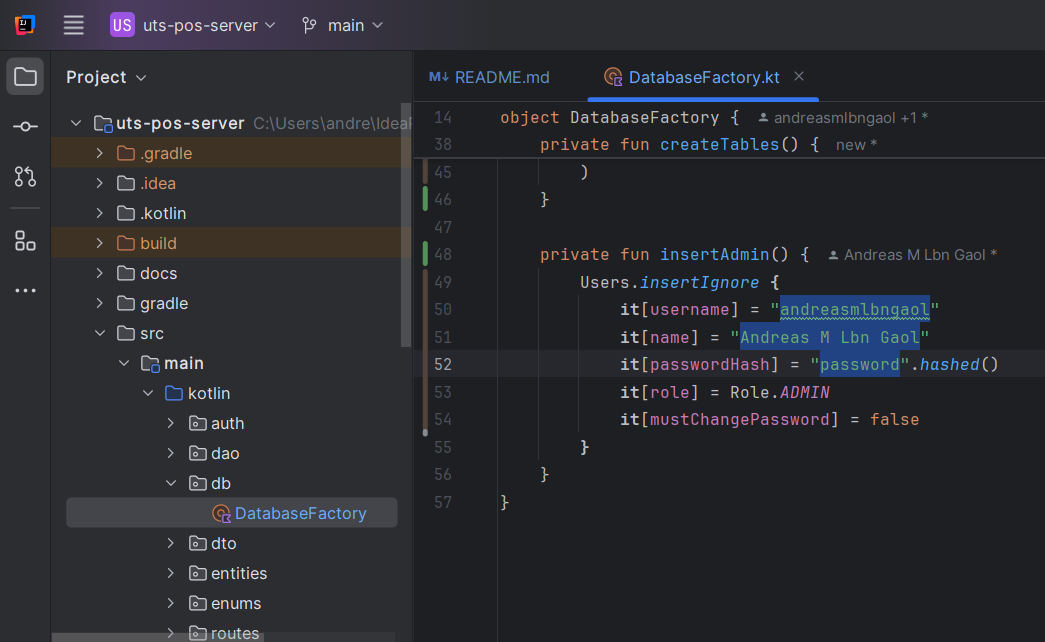
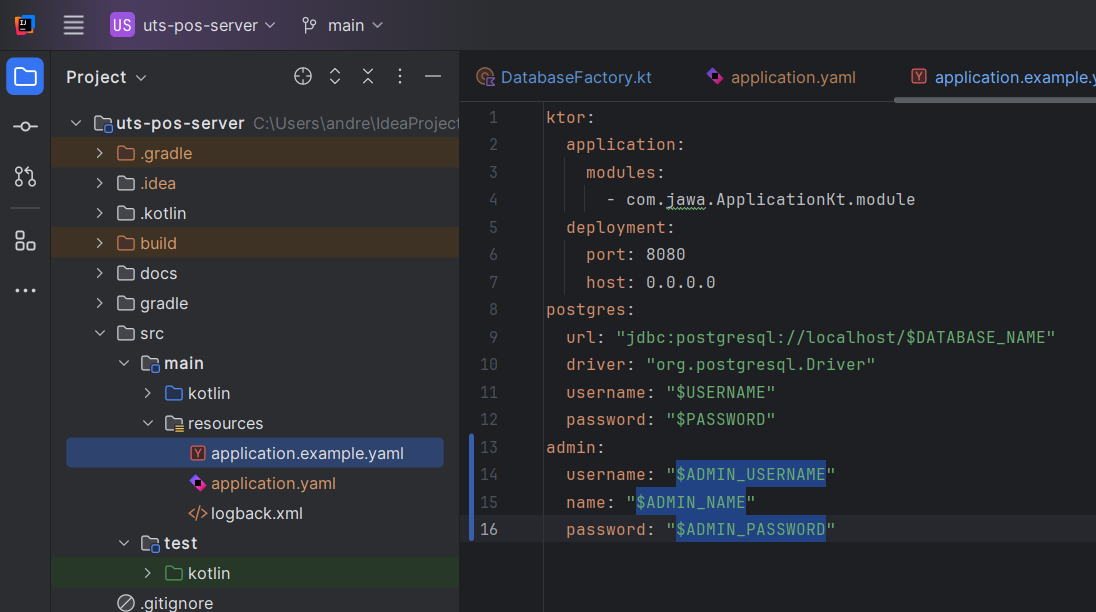
Update Configuration to provide default admin

diff --git a/README.md b/README.md
@@ -33,9 +33,10 @@
     ```postgresql
     CREATE DATABASE db_name;
     ```
-2. Modify [**application.example.yaml**](src/main/resources/application.example.yaml) in `/src/main/resources/` with your own database configuration (DATABASE_NAME, USERNAME, PASSWORD) and rename the file name to **application.yaml**
-    ![modify_conf](docs/modify_conf.png)
-3. Modify the `insertAdmin()` functions in [**DatabaseFactory.kt**](src/main/kotlin/db/DatabaseFactory.kt) in `src/main/kotlin/db/` to create the default data of the admin you'll use to sign in
-    ![modify_admin](docs/modify_admin.png)
-4. Run server
+2. Modify [**application.example.yaml**](src/main/resources/application.example.yaml) in `/src/main/resources/` with your own database configuration (DATABASE_NAME, USERNAME, PASSWORD)
+    ![modify_conf](docs/modify_db.png)
+3. Modify [**application.example.yaml**](src/main/resources/application.example.yaml) in `/src/main/resources/` with your own default admin configuration (USERNAME, NAME, PASSWORD)
+   ![modify_conf](docs/modify_admin.png)
+4. Rename the file name [**application.example.yaml**](src/main/resources/application.example.yaml) to **application.yaml** 
+5. Run server
 5. Run **[client application](https://github.com/andreasmlbngaol/uts-pos-client)**
